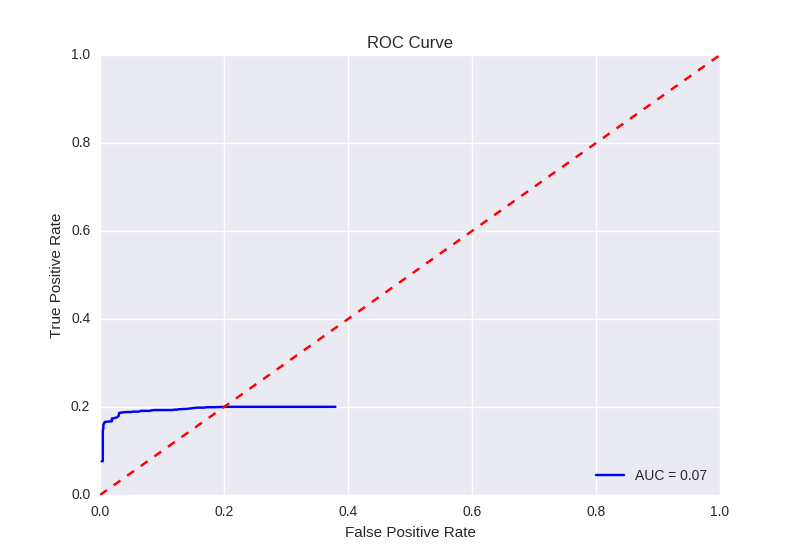
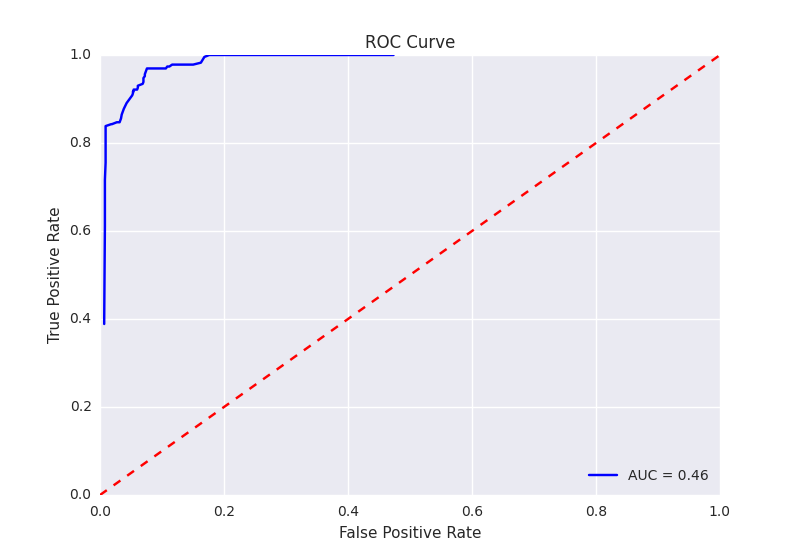
fixed the ROC curve values including AUC

diff --git a/detection_toolbox.py b/detection_toolbox.py
@@ -42,13 +42,13 @@ class DetectionToolbox:
         return prediction_future
 
     def calculate_roc_curve(self, future_residuals_prediction, ys):
-        fa_rate_data = []
-        md_rate_data = []
-        ta_rate_data = []
+        fp_rate_data = []
+        fn_rate_data = []
+        tp_rate_data = []
 
         ideal_threshold = -1.0
-        ideal_fa_rate = -1.0
-        ideal_md_rate = -1.0
+        ideal_fp_rate = -1.0
+        ideal_fn_rate = -1.0
 
         threshold_found = False
 
@@ -56,36 +56,31 @@ class DetectionToolbox:
             threshold = 1.0 + float(t) * 0.05
             if __debug__:
                 print 'Checking threshold: ', threshold
-            total_count, fa_count, ta_count, md_count = \
+            fp_rate, fn_rate, tp_rate = \
                 self.calculate_counts(future_residuals_prediction, ys, threshold)
             
             if __debug__:
-                print 'True Alarm Count: ', ta_count
-                print 'False Alarm Count: ', fa_count
-                print 'Missed Detection Count: ', md_count
+                print '(True Positive) True Alarm Rate: ', tp_rate
+                print '(False Positive) False Alarm Rate: ', fp_rate
+                print '(False Negative) Missed Detection Rate: ', fn_rate
                 print '------------------------------------'
-            fa_rate = float(fa_count) / total_count
-            md_rate = float(md_count) / total_count
-            ta_rate = float(ta_count) / total_count
 
-            if not threshold_found and fa_count < md_count:
-                final_correct_count, final_fa_count, dummy, final_md_count = self.calculate_counts(future_residuals_prediction, ys, threshold - 0.025)
-                ideal_fa_rate = float(final_fa_count) / (final_correct_count + final_fa_count + final_md_count)
-                ideal_md_rate = float(final_md_count) / (final_correct_count + final_fa_count + final_md_count)
+            if not threshold_found and fp_rate < fn_rate:
+                ideal_fp_rate, ideal_fn_rate, ideal_tp_rate = self.calculate_counts(future_residuals_prediction, ys, threshold - 0.025)
                 ideal_threshold = threshold - 0.025
                 threshold_found = True
             
-            fa_rate_data.append(fa_rate)
-            md_rate_data.append(md_rate)
-            ta_rate_data.append(ta_rate)
+            fp_rate_data.append(fp_rate)
+            fn_rate_data.append(fn_rate)
+            tp_rate_data.append(tp_rate)
 
-        roc_auc = auc(np.array(fa_rate_data), np.array(ta_rate_data), reorder=True)
+        roc_auc = auc(np.array(fp_rate_data), np.array(tp_rate_data), reorder=True)
         
         if __debug__:
             print 'Plotting Detection Error Tradeoff'
             fig = plt.figure()
             plt.title('Detection Error Tradeoff')
-            plt.plot(fa_rate_data, md_rate_data, 'b')
+            plt.plot(fp_rate_data, fn_rate_data, 'b')
             plt.legend(loc='lower right')
             plt.plot([0, 1], [0, 1], 'r--')
             plt.xlim([0.0, 1.0])
@@ -96,7 +91,7 @@ class DetectionToolbox:
             print 'Plotting ROC Curve'
             fig = plt.figure()
             plt.title('ROC Curve')
-            plt.plot(fa_rate_data, ta_rate_data, 'b', label='AUC = %0.2f' % roc_auc)
+            plt.plot(fp_rate_data, tp_rate_data, 'b', label='AUC = %0.2f' % roc_auc)
             plt.legend(loc='lower right')
             plt.plot([0, 1], [0, 1], 'r--')
             plt.xlim([0.0, 1.0])
@@ -105,7 +100,7 @@ class DetectionToolbox:
             plt.xlabel('False Positive Rate')
             fig.savefig('roc.png')
 
-        return roc_auc, ideal_threshold, ideal_fa_rate, ideal_md_rate
+        return roc_auc, ideal_threshold, ideal_fp_rate, ideal_fn_rate
 
     def calculate_counts(self, future_residuals_prediction, ys, threshold):
         return self._calculate_error_rates(threshold,
@@ -135,16 +130,25 @@ class DetectionToolbox:
             alarm_actuals.append(alarm_actual)
 
         # Calculate the false alarm and missed detection rate
-        fa_count = 0
-        md_count = 0
-        ta_count = 0
+        fp_count = 0
+        fn_count = 0
+        tp_count = 0
+        tn_count = 0
         for r in xrange(len(alarms)):
             if alarms[r] == True and alarm_actuals[r] == False:
-                fa_count += 1
+                fp_count += 1
             elif alarms[r] == False and alarm_actuals[r] == True:
-                md_count += 1
+                fn_count += 1
             elif alarms[r] == True and alarm_actuals[r] == True:
-                ta_count += 1
+                tp_count += 1
+            elif alarms[r] == False and alarm_actuals[r] == False:
+                tn_count += 1
+
+        fp_rate = float(fp_count) / float(fp_count + tn_count)
+        fn_rate = float(fn_count) / float(tp_count + fn_count)
+        tp_rate = float(tp_count) / float(tp_count + fn_count)
 
         # return total events, false alarms, true alarms, missed detections
-        return len(alarms), fa_count, ta_count, md_count
+        return fp_rate, fn_rate, tp_rate
+
+

diff --git a/main.py b/main.py
@@ -118,10 +118,8 @@ def compare_detection_algorithms():
 def detect_with_threshold(regression_model, future_prediction_model, past_prediction_horizon, ts, xs, ys, threshold):
     detection_toolbox = DetectionToolbox(regression_model, past_prediction_horizon, future_prediction_model)
     future_residuals_prediction = detection_toolbox.predict_residuals(ts, xs, ys)
-    total_count, fa_count, ta_count, md_count = detection_toolbox.calculate_counts(future_residuals_prediction, ys, threshold)
-    fa_rate = float(fa_count) / total_count
-    md_rate = float(md_count) / total_count
-    return fa_rate, md_rate
+    fp_rate, fn_rate, tp_rate = detection_toolbox.calculate_counts(future_residuals_prediction, ys, threshold)
+    return fp_rate, fn_rate
 
 
 def detect(regression_model, future_prediction_model, past_prediction_horizon, ts, xs, ys):
